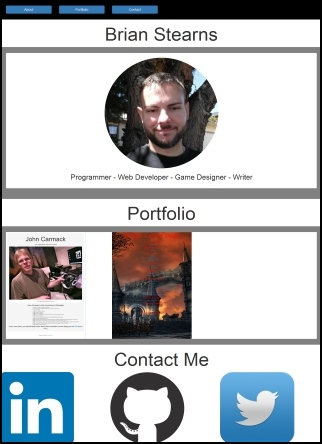
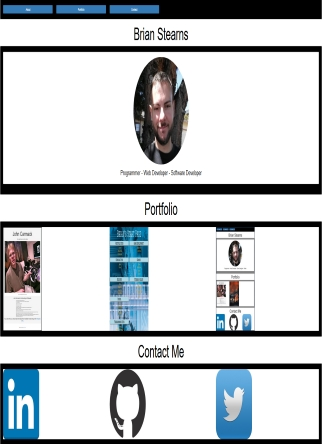
Updated project images. Added links.

diff --git a/index.html b/index.html
@@ -97,15 +97,21 @@ h4 {
     <div class="row">
       
       <div class="col-xs-4">
-        <img class="img-responsive" src="https://briangdgit.github.io/Brian-Stearns/images/Port1.jpg" alt="Project1">
+		<a href="https://briangdgit.github.io/FCC-FE-Tribute-Page/">
+			<img class="img-responsive" src="https://briangdgit.github.io/Brian-Stearns/images/Port1.jpg" alt="Project1">
+		</a>
       </div>
       
       <div class="col-xs-4">
-        <img class="img-responsive" src="https://briangdgit.github.io/Brian-Stearns/images/Port2.jpg" alt="Project2">
+		<a href="https://briangdgit.github.io/StartPage/">
+			<img class="img-responsive" src="https://briangdgit.github.io/Brian-Stearns/images/Port2.jpg" alt="Project2">
+		</a>
       </div>
       
       <div class="col-xs-4">
-        <img class="img-responsive" src="https://briangdgit.github.io/Brian-Stearns/images/Port3.jpg" alt="Project3">  
+		<a href="https://briangdgit.github.io/Brian-Stearns/">
+			<img class="img-responsive" src="https://briangdgit.github.io/Brian-Stearns/images/Port3.jpg" alt="Project3">  
+		</a>
       </div>
         
     </div>
